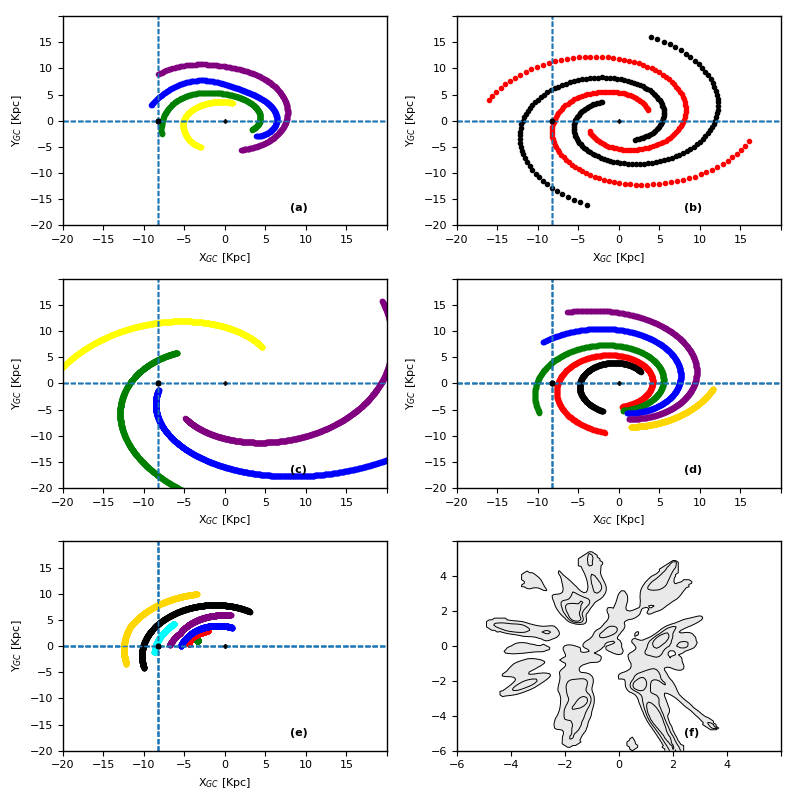
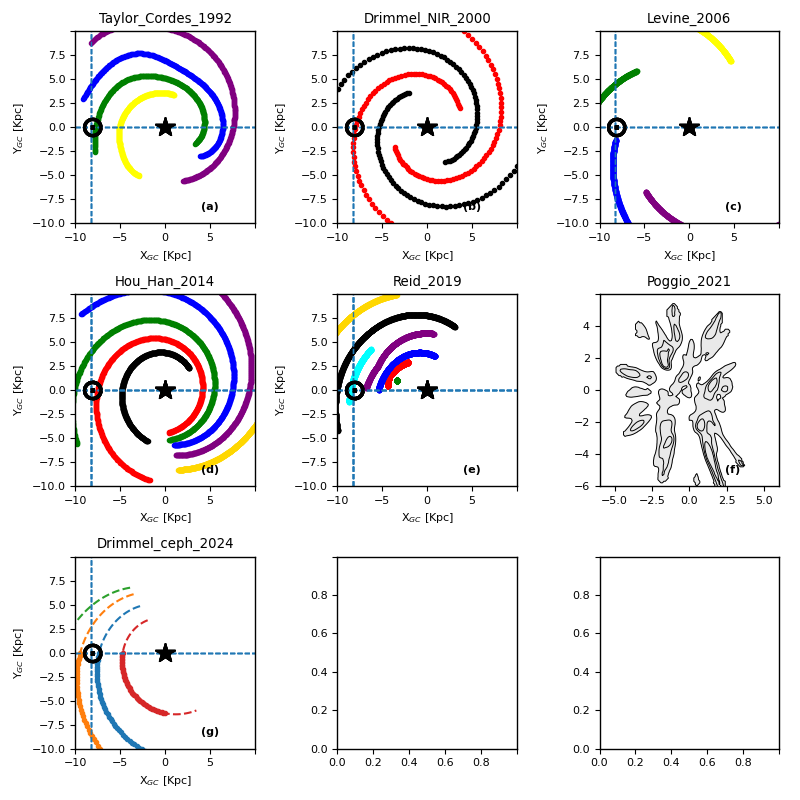
update

diff --git a/SpiralMap.py b/SpiralMap.py
@@ -1137,24 +1137,24 @@ class main_(object):
 								'ymax':''}
 		
 	
-	def add2plot(self,coordsys):
+	def add2plot(self,plotattrs):
 		
-		if coordsys =='HC':					
+		if plotattrs['coordsys'] =='HC':					
 			# hc case					
 
 			plt.axvline(0,linewidth=1,linestyle='--')			
 			plt.axhline(0,linewidth=1,linestyle='--')		
-			plt.plot(0.,0.,marker='o',markersize=self.plotattrs_default['markersize'],color='black')
-			plt.plot(-self.xsun,0.,marker='+',markersize=self.plotattrs_default['markersize'],color='black')	
+			plt.plot(0.,0.,marker='o',markersize=plotattrs['markersize'],color='black')
+			plt.plot(-self.xsun,0.,marker='+',markersize=plotattrs['markersize'],color='black')	
 
 
-		if coordsys =='GC':							
+		if plotattrs['coordsys'] =='GC':							
 			# gc case				
 			
 			plt.axvline(self.xsun,linewidth=1,linestyle='--')			
 			plt.axhline(0,linewidth=1,linestyle='--')			
-			plt.plot(0.,0.,marker='+',markersize=self.plotattrs_default['markersize'],color='black')
-			plt.plot(self.xsun,0.,marker='o',markersize=self.plotattrs_default['markersize'],color='black')
+			plt.plot(0.,0.,marker='*',markersize=plotattrs['markersize'],color='black')
+			plt.plot(self.xsun,0.,marker=r'$\odot$',markersize=plotattrs['markersize'],color='black')
 			
 	
 	def readout_test(self,plotattrs={},model='',arm='',print_=False):
@@ -1283,6 +1283,8 @@ class main_(object):
 		spimod.xsun = self.xsun
 		spimod.getarmlist()	
 
+		self.armlist = spimod.arms
+
 		if 'poggio' in model.lower():		
 			spimod.output_()	
 
@@ -1315,8 +1317,8 @@ class main_(object):
 	
 					
 					if plotattrs['xmin'] == '' or plotattrs['xmax'] == '' or plotattrs['ymin'] == '' or plotattrs['ymax'] == '' :
-						xmin,xmax = np.nanmin(spimod.dout['x'+plotattrs['coordsys'].lower()]),np.nanmax(spimod.dout['x'+plotattrs['coordsys'].lower()])
-						ymin,ymax = np.nanmin(spimod.dout['y'+plotattrs['coordsys'].lower()]),np.nanmax(spimod.dout['y'+plotattrs['coordsys'].lower()])
+						xmin,xmax = np.nanmin(spimod.dout['x'+plotattrs['coordsys'].lower()]) ,np.nanmax(spimod.dout['x'+plotattrs['coordsys'].lower()]) 
+						ymin,ymax = np.nanmin(spimod.dout['y'+plotattrs['coordsys'].lower()]) ,np.nanmax(spimod.dout['y'+plotattrs['coordsys'].lower()])  
 					else:
 						xmin,xmax = plotattrs['xmin'],plotattrs['xmax']
 						ymin,ymax = plotattrs['ymin'],plotattrs['ymax']
@@ -1344,8 +1346,8 @@ class main_(object):
 	
 	
 					if plotattrs['xmin'] == '' or plotattrs['xmax'] == '' or plotattrs['ymin'] == '' or plotattrs['ymax'] == '' :
-						xmin,xmax = np.nanmin(spimod.dout['x'+plotattrs['coordsys'].lower()]),np.nanmax(spimod.dout['x'+plotattrs['coordsys'].lower()])
-						ymin,ymax = np.nanmin(spimod.dout['y'+plotattrs['coordsys'].lower()]),np.nanmax(spimod.dout['y'+plotattrs['coordsys'].lower()])
+						xmin,xmax = np.nanmin(spimod.dout['x'+plotattrs['coordsys'].lower()]) ,np.nanmax(spimod.dout['x'+plotattrs['coordsys'].lower()]) 
+						ymin,ymax = np.nanmin(spimod.dout['y'+plotattrs['coordsys'].lower()]) ,np.nanmax(spimod.dout['y'+plotattrs['coordsys'].lower()]) 
 					else:
 						xmin,xmax = plotattrs['xmin'],plotattrs['xmax']
 						ymin,ymax = plotattrs['ymin'],plotattrs['ymax']
@@ -1359,7 +1361,7 @@ class main_(object):
 					plt.ylim([ymin,ymax])	
 					
 					if plotattrs['markSunGC']:
-						self.add2plot(plotattrs['coordsys'])
+						self.add2plot(plotattrs)
 	
 
 

diff --git a/test.py b/test.py
@@ -24,10 +24,10 @@ if mkpaperfigs:
 	
 	print('plotting figures for primer')
 	xsun=-8.277
-	plotattrs = {'plot':True,'coordsys':'GC','markersize':15,'markSunGC':True,'xmin':-20,'xmax':20,'ymin':-20,'ymax':20}
-	# plotattrs = {'plot':True,'coordsys':'HC','markersize':15,'markSunGC':True}
+	plotattrs = {'plot':True,'coordsys':'GC','markersize':15,'markSunGC':True,'xmin':-10,'xmax':10,'ymin':-10,'ymax':10}
+	# plotattrs = {'plot':True,'coordsys':'GC','markersize':15,'markSunGC':True}
 	plt.close('all')
-	plm=putil.Plm2(3,2,xsize=8.0,ysize=8.,xmulti=False,ymulti=False,full=True,slabelx=0.7,slabely=0.07)			
+	plm=putil.Plm2(3,3,xsize=8.0,ysize=8.,xmulti=False,ymulti=False,full=True,slabelx=0.7,slabely=0.07)			
 	
 	
 	spirals = sp.main_(xsun=xsun)
@@ -41,7 +41,7 @@ if mkpaperfigs:
 		spirals.getinfo(model=use_model)
 		spirals.readout(plotattrs,model=use_model,arm='all')
 
-	
+		plt.title(use_model)
 	
 	plm.tight_layout()
 	plt.savefig(figdir_primer+'/spirals.png')
